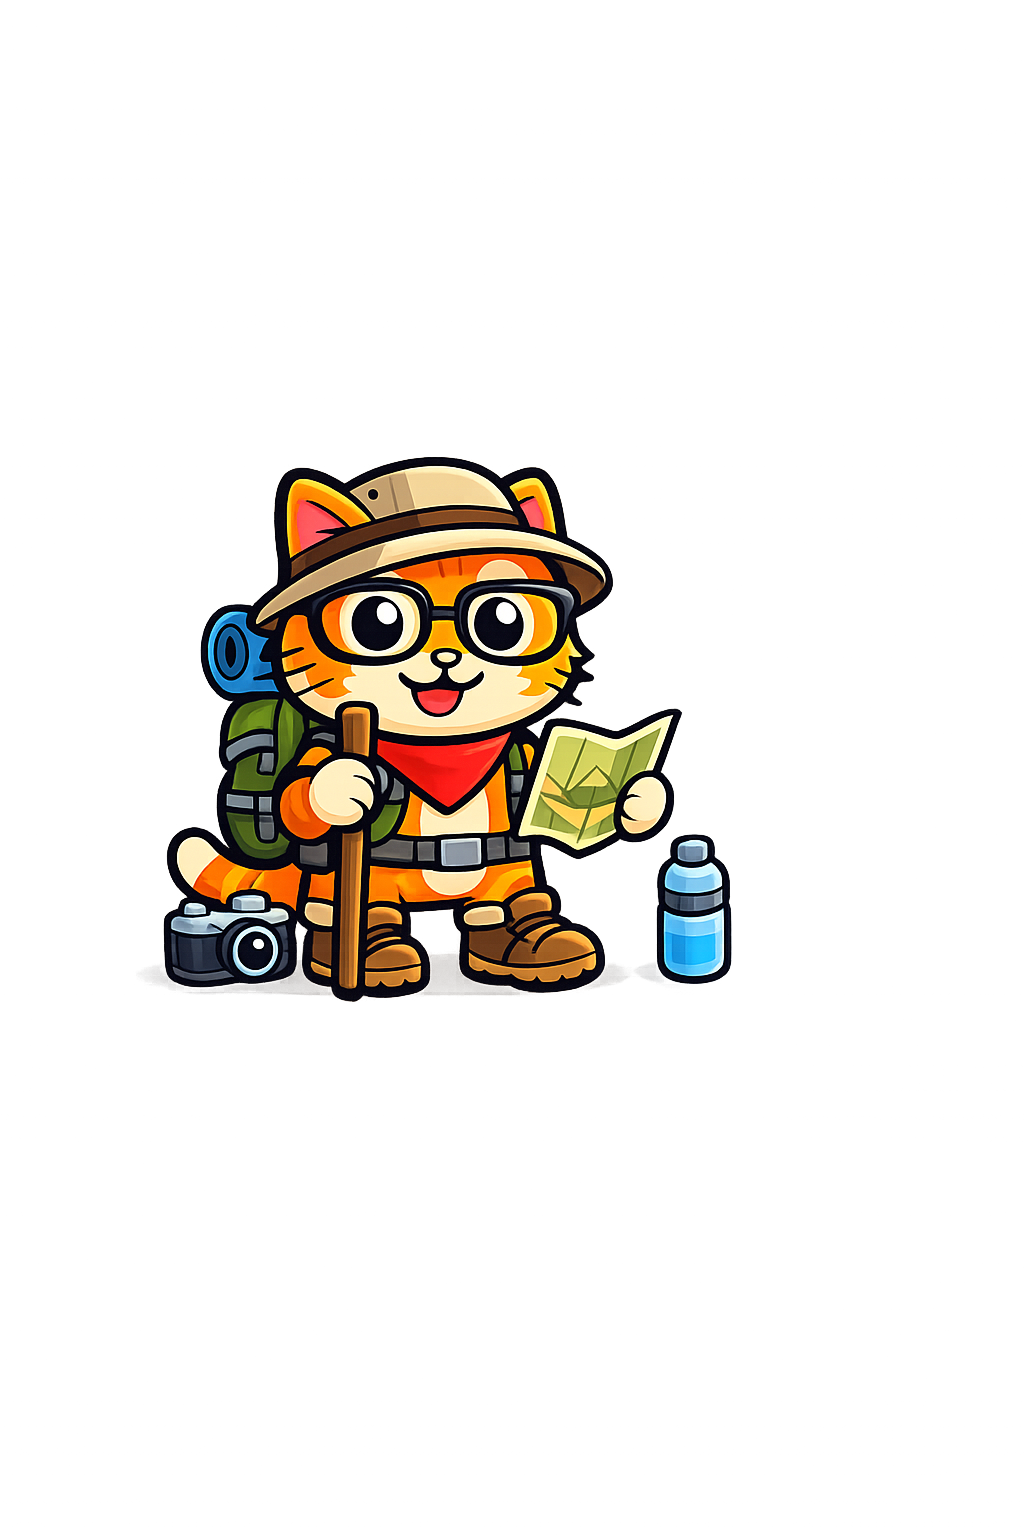
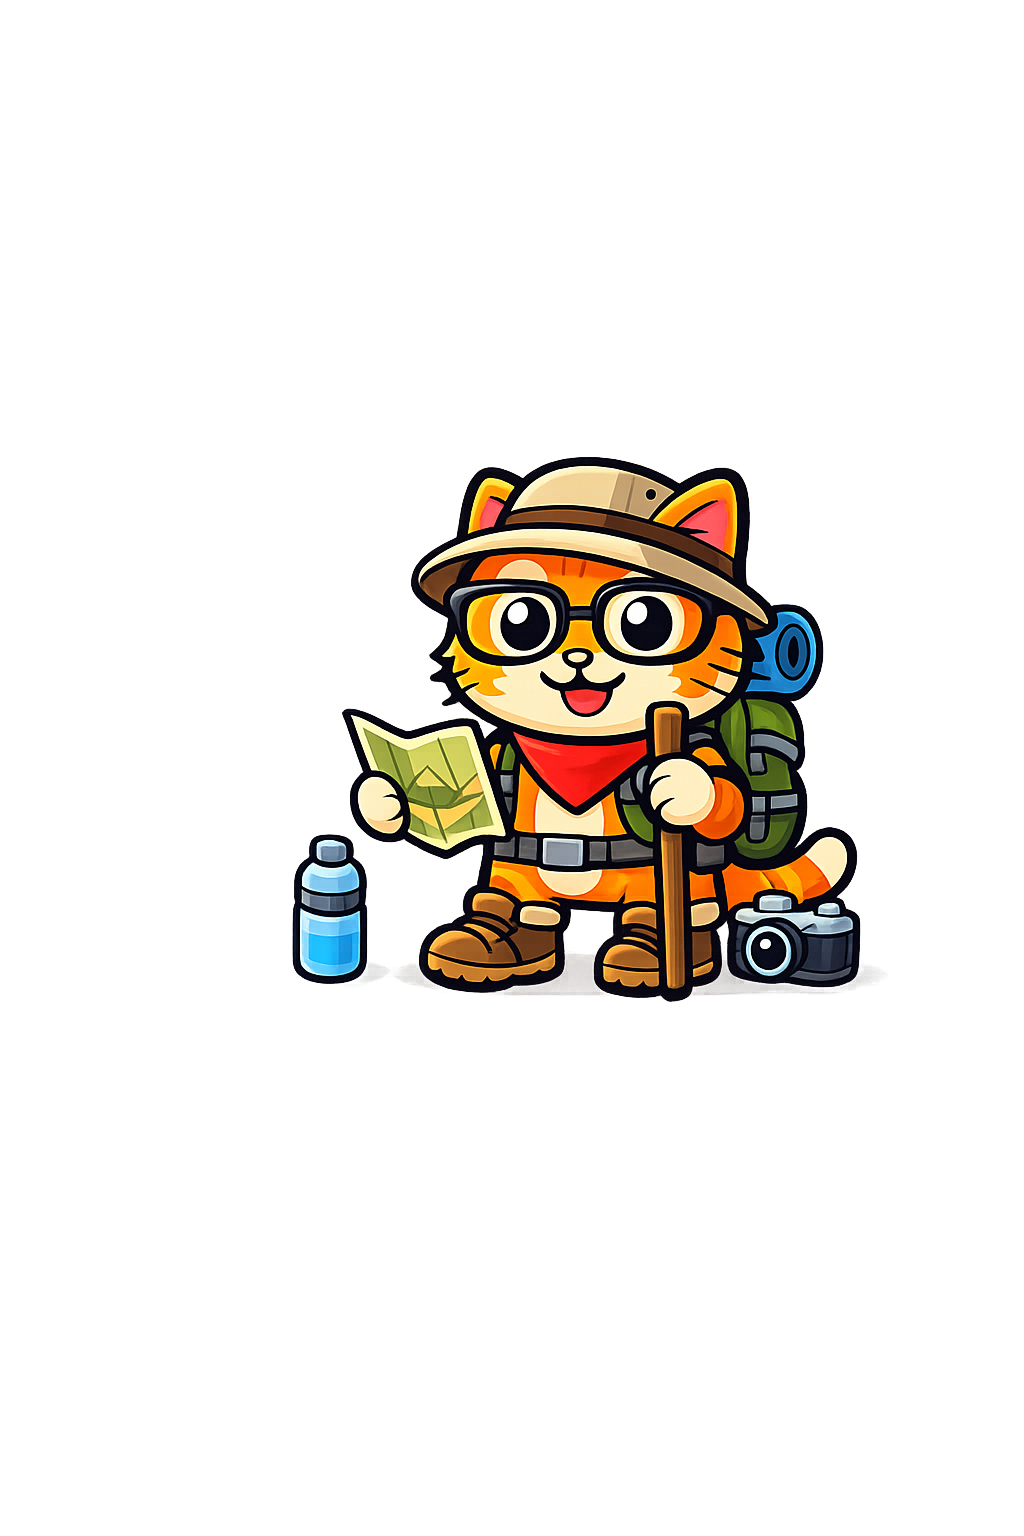
images added

Changed region(s): [[0.1562, 0.2812, 0.8438, 0.6562]]

diff --git a/lib/widgets/hero_banner.dart b/lib/widgets/hero_banner.dart
@@ -26,13 +26,20 @@ class HeroBanner extends StatelessWidget {
     final screenWidth = MediaQuery.of(context).size.width;
     final isNarrow = screenWidth < 600;
     final isSvg = assetPath.toLowerCase().endsWith('.svg');
-    // Use the same sizes as the original dummy images
+
+    // base sizes (original dummy sizes)
     final double baseWidth = isNarrow ? 180.0 : 220.0;
     final double baseHeight = isNarrow ? 130.0 : 160.0;
     final double imageWidth = baseWidth;
     final double imageHeight = baseHeight;
 
-    return Container(
+    // When rendering for wide layouts we want the image visually larger but
+    // without affecting surrounding layout. We render a scaled image and
+    // position it absolutely using a Positioned widget inside a Stack.
+    const double imageScale = 4.0;
+
+    // Banner container (keeps its size and layout)
+    final banner = Container(
       margin: const EdgeInsets.symmetric(vertical: 12),
       padding: const EdgeInsets.symmetric(horizontal: 36, vertical: 36),
       decoration: BoxDecoration(
@@ -54,23 +61,51 @@ class HeroBanner extends StatelessWidget {
               children: [
                 _textContent(theme),
                 const SizedBox(height: 24),
-                const SizedBox(height: 24),
-                Center(
-                  child: isSvg
-                      ? SafeSvg.asset(assetPath, width: imageWidth, height: imageHeight)
-                      : Image.asset(assetPath, width: imageWidth, height: imageHeight, fit: BoxFit.contain),
-                ),
+                // On narrow screens we don't render the small inline image: the
+                // enlarged positioned image is used for all screen sizes so
+                // rendering a centered small image would create duplication.
               ],
             )
           : Row(
               children: [
                 Expanded(child: _textContent(theme)),
                 const SizedBox(width: 24),
-                isSvg
-                  ? SafeSvg.asset(assetPath, width: imageWidth, height: imageHeight)
-                  : Image.asset(assetPath, width: imageWidth, height: imageHeight, fit: BoxFit.contain),
+                // placeholder box to reserve space in the layout — actual image
+                // is positioned absolutely in the Stack so it won't affect layout
+                SizedBox(width: imageWidth, height: imageHeight),
               ],
             ),
+    );
+
+    // Always wrap everything in a full‑width Stack so we can position the
+    // enlarged image at the top‑right corner of the viewport. The banner itself
+    // remains centered and it continues using its fixed max width to avoid
+    // stretching on large screens.
+    // Wrap banner in a Stack so we can render the enlarged image in the
+    // top‑right corner of the banner itself. The banner retains its normal
+    // width/height and the image simply overflows when scaled.
+    return Stack(
+      clipBehavior: Clip.none,
+      children: [
+        banner,
+        Positioned(
+          // fixed offsets keep the scaled image near the banner's top-right
+          // corner. tune these constants for visual positioning.
+          // pushed another two inches rightward (≈192px)
+          // now nudged left by about 1 1/4" (~120px) total
+          right: -232,
+          // raised roughly one more inch (≈96px)
+          // now dropped slightly (~32px) to sit 1/3" lower
+          top: -144,
+          child: Transform.scale(
+            scale: imageScale,
+            alignment: Alignment.topRight,
+            child: isSvg
+                ? SafeSvg.asset(assetPath, width: imageWidth, height: imageHeight)
+                : Image.asset(assetPath, width: imageWidth, height: imageHeight, fit: BoxFit.contain),
+          ),
+        ),
+      ],
     );
   }
 

diff --git a/lib/widgets/value_pill.dart b/lib/widgets/value_pill.dart
@@ -24,20 +24,18 @@ class ValuePill extends StatelessWidget {
         crossAxisAlignment: CrossAxisAlignment.start,
         children: [
           Container(
-            // triple the container to accommodate triple-sized images
-            width: 132,
-            height: 132,
+            width: 44,
+            height: 44,
             decoration: BoxDecoration(
               color: kikiOrange.withAlpha(20),
-              borderRadius: BorderRadius.circular(36),
+              borderRadius: BorderRadius.circular(12),
             ),
             child: imageAsset != null
                 ? Padding(
-                    // center a 66x66 image (22 * 3)
-                    padding: const EdgeInsets.all(33),
-                    child: Image.asset(imageAsset!, width: 66, height: 66, fit: BoxFit.contain),
+                    padding: const EdgeInsets.all(6),
+                    child: Image.asset(imageAsset!, width: 32, height: 32, fit: BoxFit.contain),
                   )
-                : Icon(icon ?? Icons.help_outline, color: kikiOrange, size: 66),
+                : Icon(icon ?? Icons.help_outline, color: kikiOrange, size: 22),
           ),
           const SizedBox(height: 14),
           Text(title, style: theme.textTheme.titleMedium),
